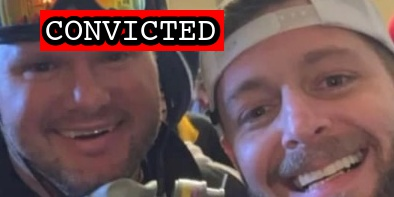
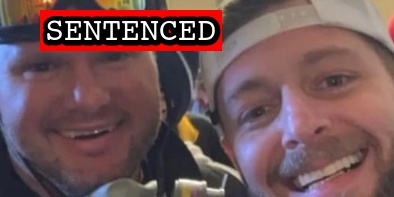
Reed sentence

Changed region(s): [[0.2437, 0.0609, 0.4569, 0.2437], [0.0914, 0.0609, 0.2132, 0.2437], [0.5482, 0.0305, 0.5787, 0.2741]]

diff --git a/docs/_suspects/blake-reed.md b/docs/_suspects/blake-reed.md
@@ -4,18 +4,18 @@ lastName: Reed
 hashtag: BlakeReed
 aka:
 residence: Tennessee
-status: Convicted
+status: Sentenced
 date: 2021-01-17
 charged: 2021-01-17
 indicted: 2021-03-10
 convicted: 2022-01-11
 acquitted:
-sentenced:
+sentenced: 2022-04-14
 dismissed:
 deceased:
 plea_hearing: 2022-01-11
 trial_date:
-sentencing: 2022-04-15
+sentencing: 2022-04-14
 age: 35
 occupation:
 affiliations:
@@ -36,12 +36,17 @@ published: true
 caseNumber: 1:21-cr-204
 videos:
 charges:
-- code: 18 USC § 1752(a)(1)
-  title: Entering a restricted building or grounds
-  url: https://www.law.cornell.edu/uscode/text/18/1752
-  felony: false
+  - code: 18 USC § 1752(a)(1)
+    title: Entering a restricted building or grounds
+    url: https://www.law.cornell.edu/uscode/text/18/1752
+    felony: false
 sentence:
+  - 42 days in prison
+  - period of home confinement
+  - 36 months probation
+  - $500 restitution
 ---
+
 - [News Report](https://www.tennessean.com/story/news/crime/2021/01/17/nashville-man-blake-austin-reed-charged-fbi-capitol-riot/4196605001/)
 - [Complaint](https://www.justice.gov/opa/page/file/1355936/download)
 - [Statement of Facts](https://www.justice.gov/opa/page/file/1355931/download)
